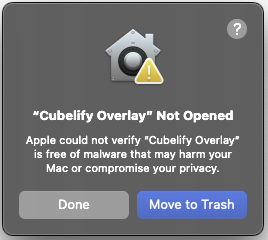
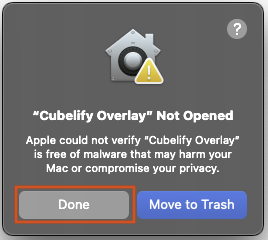
Add guide on how to unquarantine the overlay through system settings on macOS

Changed region(s): [[0.0299, 0.7583, 0.5075, 0.9333]]

diff --git a/docs/overlay/getting-started/installation/macos-installer.md b/docs/overlay/getting-started/installation/macos-installer.md
@@ -22,10 +22,15 @@ Open the downloaded `Cubelify Overlay-X.X.X-universal.dmg` file. Grab the `Cubel
 ### Unquarantine
 
 As the app is not [code signed](https://support.apple.com/guide/security/sec3ad8e6e53/web) due to the high annual cost
-of [an Apple Developer Program membership](https://developer.apple.com/support/compare-memberships/), by default after
-installation it will be quarantined, and you'll be unable to run it.
+of [an Apple Developer Program membership](https://developer.apple.com/support/compare-memberships/), when you launch it
+for the first time you'll see the following prompt - please make sure to press *Done* here.
 
 ![](/img/docs/overlay/getting-started/installation/macos-installer/quarantined.png)
+
+To use the overlay you'll need to unquarantine it, which can be done either using the *Terminal* or through *System
+Settings*. This is a one-time process that you'll only need to repeat if you reinstall or upgrade the app.
+
+#### Using the Terminal
 
 This quarantine can be removed by opening the *Terminal* app on you Mac and running the following command:
 
@@ -33,4 +38,15 @@ This quarantine can be removed by opening the *Terminal* app on you Mac and runn
 xattr -d com.apple.quarantine "/Applications/Cubelify Overlay.app/"
 ```
 
-This command removes the quarantine from the installed app. It only needs to be run once, after installing the overlay.
+#### Using System Settings
+
+After launching the app for the first time, open *System Settings* &rarr; *Privacy & Security*. Scroll down to the
+*Security* section and locate the item for the Cubelify Overlay, and then press *Open Anyway* next to it.
+
+![](/img/docs/overlay/getting-started/installation/macos-installer/unquarantine-system-settings.png)
+
+You'll need to press *Open Anyway* again to confirm it, and then authenticate with Touch ID or a password.
+
+![](/img/docs/overlay/getting-started/installation/macos-installer/unquarantine-system-settings-confirm.png)
+
+![](/img/docs/overlay/getting-started/installation/macos-installer/unquarantine-system-settings-authenticate.png)
